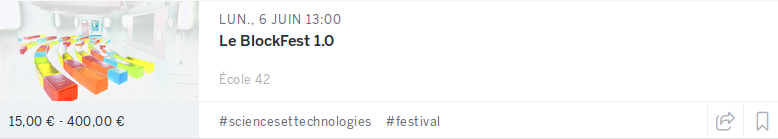
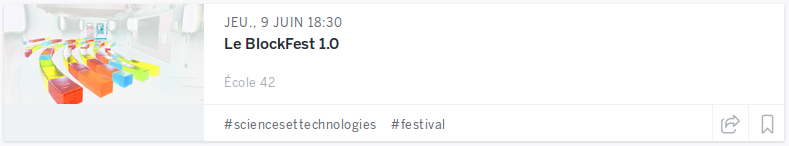
nightly builds

diff --git a/client/program/program.js b/client/program/program.js
@@ -32,170 +32,62 @@ Template.program.rendered = function () {
 function getDays() {
 	var days = [
 		{
-			name: "Lundi",
-			descr: "Qu’est-ce que la Blockchain ? État des lieux technologique et idéologique.",
+			name: "Jeudi 9 Juin",
+			descr: "Session préparatoire",
 			entries: [
 				{
-					start: "15h",
-					stop: "16h",
-					room: "Atelier",
-					descr: "Etat des lieux des blockchains (technique)"
-				},
-				{
-					start: "16h",
-					stop: "17h",
-					room: "Atelier",
-					descr: "Créer son identité sur la blockchain"
-				},
-				{
-					start: "17h",
-					stop: "18h",
-					room: "Atelier",
-					descr: "Blockchain 101 : théorie mathématique et technologies existantes"
-				},
-				{
-					start: "18h",
-					stop: "19h30",
-					room: "Conférence",
-					descr: "État des lieux des initiatives publiques et privées, réflexions sur les idéologies derrière les technologies"
-				},
-				{
-					start: "21h",
-					stop: "23h",
-					room: "Cantina",
-					descr: "Cocktail"
-				}
-			]
-		},
-		{
-			name: "Mardi",
-			descr: "Les applications économiques et industrielles",
-			entries: [
-				{
-					start: "13h",
-					stop: "14h",
-					room: "Atelier",
-					descr: "Découvrir Hyperledger"
-				},
-				{
-					start: "14h",
-					stop: "15h",
-					room: "Atelier",
-					descr: "Exploration de la blockchain dans l’immobilier"
-				},
-				{
-					start: "15h",
-					stop: "16h",
-					room: "Atelier",
-					descr: "Energie et blockchain : crédit carbone, smart grid, certification d’énergie verte…"
-				},
-				{
-					start: "16h",
-					stop: "17h",
-					room: "Atelier",
-					descr: "Santé et blockchain : gestion des données médicales, détection des contrefaçons…"
-				},
-				{
-					start: "17h",
-					stop: "18h",
-					room: "Atelier",
-					descr: "Enjeux judiriques de la blockchain"
-				},
-				{
-					start: "18h",
+					start: "18h30",
 					stop: "19h",
-					room: "Conférence",
-					descr: "Pitchs de startups blockchain"
-				},
-				{
-					start: "20h",
-					stop: "23h",
-					room: "Cantina",
-					descr: "Cocktail"
-				}
-			]
-		},
-		{
-			name: "Jeudi",
-			descr: "Les implications Culturelles et Sociétales",
-			entries: [
-				{
-					start: "14h",
-					stop: "15h",
-					room: "Stand",
-					descr: "Découvrir la blockchain par le jeu"
-				},
-				{
-					start: "15h",
-					stop: "16h",
 					room: "Atelier",
-					descr: "reconnaissance et de valorisation des personnes et des compétences avec les registres distribués"
-				},
-				{
-					start: "16h",
-					stop: "17h",
-					room: "Atelier",
-					descr: "Monnaies Locales Complémentaires et Blockchain"
-				},
-				{
-					start: "17h",
-					stop: "18h",
-					room: "Atelier",
-					descr: "Supply Chain et Blockchain : traçabilité, labellisation, consommation responsable"
-				},
-				{
-					start: "18h",
-					stop: "19h",
-					room: "Conférence",
-					descr: "Education, civic-tech, culture, économie collaborative… comment la Blockchain peut changer notre société ?"
-				},
-				{
-					start: "20h",
-					stop: "23h",
-					room: "Cantina",
-					descr: "Cocktail"
-				}
-			]
-		},
-		{
-			name: "Vendredi",
-			descr: "Travaux sur la technologie et lancement du BlockSprint",
-			entries: [
-				{
-					start: "14h",
-					stop: "15h",
-					room: "Atelier",
-					descr: "Créer son smart contract avec Solidity"
-				},
-				{
-					start: "15h",
-					stop: "16h",
-					room: "Atelier",
-					descr: "le protocole Chainscript"
-				},
-				{
-					start: "16h",
-					stop: "17h",
-					room: "Conférence",
-					descr: "La Blockchain, une solution aux problèmes de l’Internet des Objets ?"
-				},
-				{
-					start: "17h",
-					stop: "18h",
-					room: "Conférence",
-					descr: "Pré-Sprint : récapitulatif de la semaine"
-				},
-				{
-					start: "18h",
-					stop: "23h",
-					room: "Cantina",
-					descr: "Cocktail"
+					descr: "Découvrir les blockchains par le jeu"
 				},
 				{
 					start: "19h",
+					stop: "19h30",
+					room: "Terre du Milieu",
+					descr: "État des lieux des blockchains : Revue des différentes technologies"
+				},
+				{
+					start: "19h30",
 					stop: "20h",
-					room: "Conférence",
+					room: "Terre du Milieu",
+					descr: "Créer son identité sur la blockchain"
+				},
+				{
+					start: "20h",
+					stop: "21h30",
+					room: "Holodeck",
+					descr: "Conférence participative : Tour d'horizon des applications et implications de la blockchain"
+				}
+			]
+		},
+		{
+			name: "Vendredi 10 Juin",
+			descr: "Introduction et lancement du BlockSprint",
+			entries: [
+				{
+					start: "17h",
+					stop: "19h",
+					room: "Terre du Milieu",
+					descr: "Pré-Sprint : Introduction au week-end, aux valeurs, aux objecitfs. Introduction aux procédés et exigences de documentation."
+				},
+				{
+					start: "19h",
+					stop: "--h",
+					room: "Holodeck",
 					descr: "Lancement du BlockSprint"
+				}
+			]
+		},
+		{
+			name: "Samedi 11 & Dimanche 12 Juin",
+			descr: "BlockSprint",
+			entries: [
+				{
+					start: "--h",
+					stop: "18h",
+					room: "Terre du Milieu",
+					descr: "Le BlockSprint sera un moment de création collective, pour construire des projets blockchain et une base de connaissance ouverte."
 				}
 			]
 		}

diff --git a/client/program/program.css b/client/program/program.css
@@ -42,7 +42,7 @@
 }
 
 .day-entry {
-	height: 60px;
+	height: 70px;
 }
 
 .times
@@ -56,7 +56,7 @@
 .start
 {
 	z-index: 15;
-	padding-top: 4px;
+	padding-top: 10px;
 	text-align: center;
 	position: relative;
 	width: 100%;
@@ -78,13 +78,13 @@
 .room
 {
 	z-index: 23;
-	height: 60px;
+	height: 70px;
 	background-color: rgba(255, 255, 255, 0.3);
 	padding-top: 20px;
 	text-align: center;
 	position: relative;
 	margin-right: -10000px;
-	width: 7.5%;
+	width: 10%;
 	left: 7.5%;
 }
 
@@ -94,12 +94,14 @@
 	min-height: 35px;
 	background-color: transparent;
 	font-size: 20px;
-	padding-top: 17px;
 	padding-left: 20px;
 	position: relative;
 	margin-right: -10000px;
-	width: 85%;
-	left: 15%;
+	width: 92.5%;
+	left: 7.5%;
+	position: relative;
+	top: 54%;
+	transform: translateY(-50%);
 }
 
 .colelem /* a child element of a column */

diff --git a/client/home/home.html b/client/home/home.html
@@ -232,12 +232,12 @@
 		<div class=header>
 			<div class=div-center>
 				<div class=intro-white>
-					<br /><b>Rejoignez-nous du 6 au 12 Juin à l'École 42 !</b>
+					<br /><b>Rejoignez-nous du 9 au 12 Juin à l'École 42 !</b>
 				</div>
 			</div>
 			<div id=stay-tuned-header>
 				<strong>
-					Les inscriptions sont ouvertes
+					Les inscriptions sont ouvertes : 25€
 				</strong>
 			</div>
 			<div>
@@ -260,7 +260,6 @@
 				conférences et ~40p par atelier. <br />
 				Pour garantir la mixité des participants, des informations sur votre
 				profil vous seront demandées à l'inscription.<br />
-				Le résultat des sélections sera communiqué au plus tard le mardi 24 Mai
 			</div>
 		</div>
 	</div>

diff --git a/client/program/program.html b/client/program/program.html
@@ -11,6 +11,10 @@
 		</div>
 	</div>
 
+	<div style=margin-bottom:80px;></div>
+
+	{{> apply_btn}}
+
 	<div style=margin-bottom:200px;></div>
 
 </template>
@@ -35,9 +39,6 @@
 			<div class="clearfix colelem stop">
 				<p>{{stop}}</p>
 			</div>
-		</div>
-		<div class="clearfix grpelem room">
-			<p>{{room}}</p>
 		</div>
 		<div class="clearfix grpelem entry-title">
 			<p>{{descr}}</p>

diff --git a/client/body.html b/client/body.html
@@ -25,12 +25,12 @@
 			class="{{#if $eq tab 'program'}}active{{/if}}">
 				<a href=#>Programme</a>
 			</li>
+			<!--
 			<li role=presentation
 			id="participate-tab"
 			class="{{#if $eq tab 'participate'}}active{{/if}}">
 				<a href=#>Billets</a>
 			</li>
-			<!--
 				<li role=presentation
 			id="rules-tab"
 			class="{{#if $eq tab 'rules'}}active{{/if}}">

diff --git a/client/home/flyer.html b/client/home/flyer.html
@@ -22,7 +22,7 @@
 							Le BlockFest 1.0
 						</div>
 						<div id=flyer-subtitle>
-							du 6 au 12 juin - École 42
+							du 9 au 12 juin - École 42
 						</div>
 					</div>
 					<div id="flyer-info">
